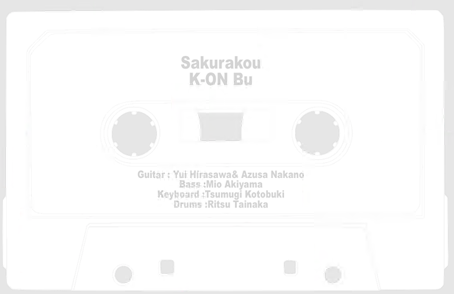
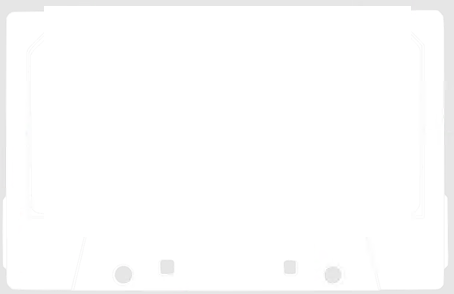
feat: 去掉文字区浅黄底、抹掉卡带标签印刷字、去掉标题行（v0.15.0）

diff --git a/lib/client.js b/lib/client.js
@@ -411,7 +411,7 @@
 			if (!Core) throw new Error("dsh-kon-fee-widget: 缺少 KonFeeCore，请先运行 node scripts/build-client.mjs");
 
 			const ASSET_BASE = "/dsh-kon-fee-widget";
-			const ASSET_REV = "6b371f32671a";
+			const ASSET_REV = "3845b64c70b8";
 			const TABLE = Core.TABLE;
 			const SNAP_DISTANCE = 24;
 			const PANEL_MS = 8000;
@@ -533,12 +533,12 @@
 .konfee-panel.is-mascot{width:355px;height:266px;background:url(/dsh-kon-fee-widget/ui/mascot.png) center/100% 100% no-repeat}
 .konfee-panel.is-plain{width:250px;padding:11px 14px 10px;background:linear-gradient(180deg,#fffdf8 0%,#fdf6e9 100%);border:1px solid rgba(163,131,94,.34)}
 .konfee-logo{position:absolute;right:10px;bottom:4px;width:52px;height:auto;opacity:.9;pointer-events:none}
-.konfee-body{position:absolute;display:flex;flex-direction:column;justify-content:space-between;padding:5px 8px;border-radius:8px;background:rgba(255,253,248,.86);box-shadow:inset 0 0 0 1px rgba(163,131,94,.14)}
+.konfee-body{position:absolute;display:flex;flex-direction:column;justify-content:space-between;padding:5px 8px}
 .konfee-panel.is-cassette .konfee-body{left:28px;right:26px;top:28px;bottom:34px}
 .konfee-panel.is-mascot .konfee-body{left:44px;right:42px;top:44px;bottom:103px}
 .konfee-panel.is-plain .konfee-body{position:static;padding:0;background:transparent;box-shadow:none}
 @keyframes konfee-pop{from{opacity:0;transform:translate(-50%,-100%) translateY(5px) scale(.96)}to{opacity:1;transform:translate(-50%,-100%) translateY(0) scale(1)}}
-.konfee-head{display:flex;align-items:center;justify-content:space-between;gap:8px}
+.konfee-head{display:flex;align-items:center;justify-content:flex-end;gap:8px}
 .konfee-title{font-size:10px;letter-spacing:.16em;color:#ab8a68;font-weight:600;white-space:nowrap}
 .konfee-amount-row{display:flex;align-items:baseline;gap:3px;margin:3px 0 5px}
 .konfee-currency{font-size:13px;color:#8d7256;font-weight:600;transform:translateY(-1px)}
@@ -1148,7 +1148,6 @@
 						panelStyle === "cassette" ? h("img", { className: "konfee-logo", src: "/dsh-kon-fee-widget/ui/logo.png", alt: "" }) : null,
 						h("div", { className: "konfee-body" },
 							h("div", { className: "konfee-head" },
-								h("span", { className: "konfee-title" }, "轻音部 · 部费账本"),
 								h("span", { className: `konfee-tag ${peak.peak ? "is-peak" : "is-valley"}` }, peak.peak ? "高峰" : "谷价"),
 							),
 							h("div", { className: "konfee-amount-row" },

diff --git a/src/client.js b/src/client.js
@@ -137,12 +137,12 @@
 .konfee-panel.is-mascot{width:355px;height:266px;background:url(/dsh-kon-fee-widget/ui/mascot.png) center/100% 100% no-repeat}
 .konfee-panel.is-plain{width:250px;padding:11px 14px 10px;background:linear-gradient(180deg,#fffdf8 0%,#fdf6e9 100%);border:1px solid rgba(163,131,94,.34)}
 .konfee-logo{position:absolute;right:10px;bottom:4px;width:52px;height:auto;opacity:.9;pointer-events:none}
-.konfee-body{position:absolute;display:flex;flex-direction:column;justify-content:space-between;padding:5px 8px;border-radius:8px;background:rgba(255,253,248,.86);box-shadow:inset 0 0 0 1px rgba(163,131,94,.14)}
+.konfee-body{position:absolute;display:flex;flex-direction:column;justify-content:space-between;padding:5px 8px}
 .konfee-panel.is-cassette .konfee-body{left:28px;right:26px;top:28px;bottom:34px}
 .konfee-panel.is-mascot .konfee-body{left:44px;right:42px;top:44px;bottom:103px}
 .konfee-panel.is-plain .konfee-body{position:static;padding:0;background:transparent;box-shadow:none}
 @keyframes konfee-pop{from{opacity:0;transform:translate(-50%,-100%) translateY(5px) scale(.96)}to{opacity:1;transform:translate(-50%,-100%) translateY(0) scale(1)}}
-.konfee-head{display:flex;align-items:center;justify-content:space-between;gap:8px}
+.konfee-head{display:flex;align-items:center;justify-content:flex-end;gap:8px}
 .konfee-title{font-size:10px;letter-spacing:.16em;color:#ab8a68;font-weight:600;white-space:nowrap}
 .konfee-amount-row{display:flex;align-items:baseline;gap:3px;margin:3px 0 5px}
 .konfee-currency{font-size:13px;color:#8d7256;font-weight:600;transform:translateY(-1px)}
@@ -752,7 +752,6 @@
 						panelStyle === "cassette" ? h("img", { className: "konfee-logo", src: "/dsh-kon-fee-widget/ui/logo.png", alt: "" }) : null,
 						h("div", { className: "konfee-body" },
 							h("div", { className: "konfee-head" },
-								h("span", { className: "konfee-title" }, "轻音部 · 部费账本"),
 								h("span", { className: `konfee-tag ${peak.peak ? "is-peak" : "is-valley"}` }, peak.peak ? "高峰" : "谷价"),
 							),
 							h("div", { className: "konfee-amount-row" },
